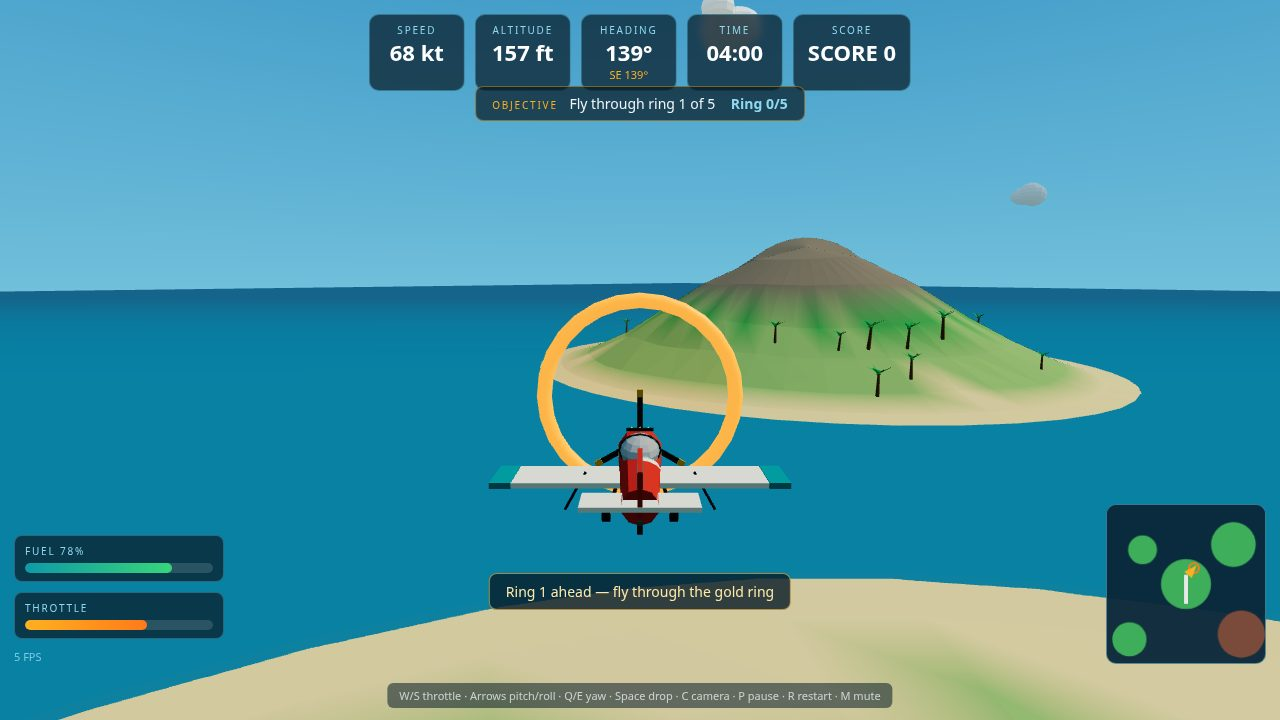
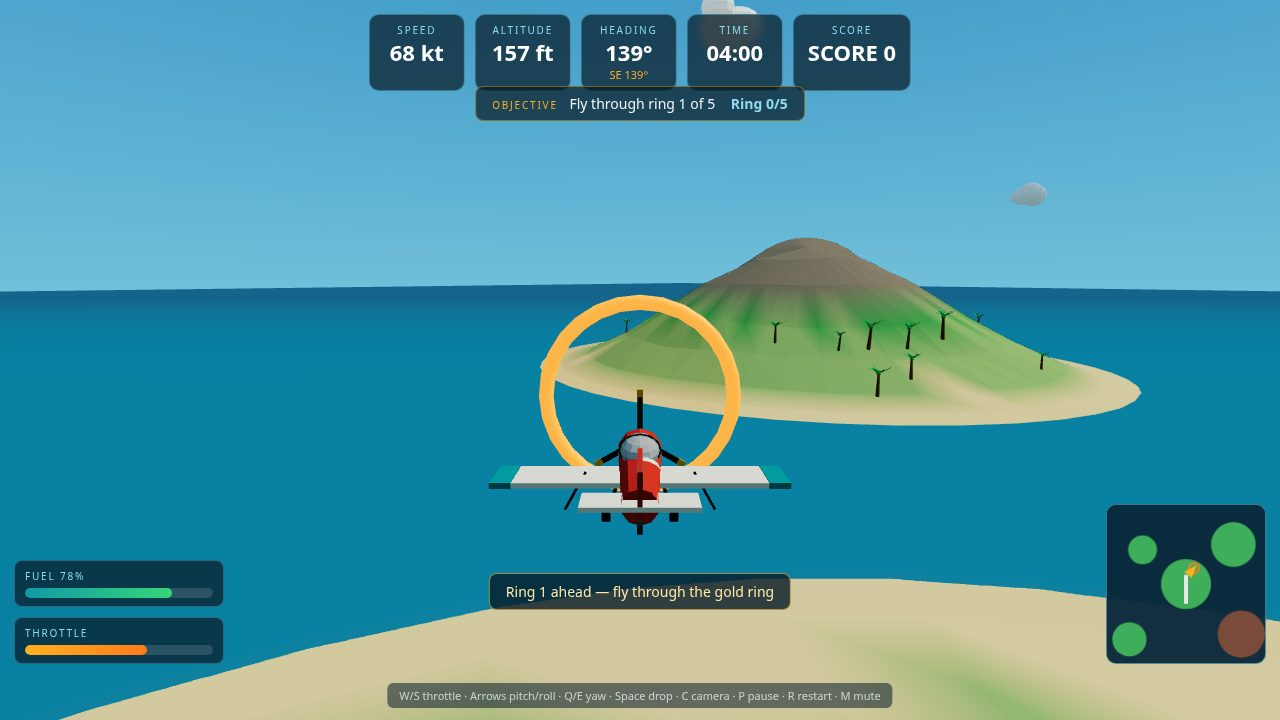
Fix cockpit view: real instrument panel + A-pillars; remove FPS readout from HUD

Changed region(s): [[0.0, 0.7333, 0.1875, 0.9472], [0.4062, 0.3972, 0.5938, 0.6417]]

diff --git a/game/src/aircraft.js b/game/src/aircraft.js
@@ -48,26 +48,148 @@ export function buildAircraft() {
   canopyFrame.scale.set(1, 0.8, 1);
   group.add(canopyFrame);
 
-  // Cockpit dashboard: a low, narrow dark strip + three tiny glowing
-  // gauges, just above the nose line so the horizon stays clear from
-  // the cockpit camera (a tall/close panel blocks the whole view).
-  // Kept thin and near the nose: from the cockpit a deep/tilted panel
-  // reads as a huge black slab.
-  const dash = new THREE.Group();
-  const dashPanel = new THREE.Mesh(new THREE.BoxGeometry(1.0, 0.1, 0.12), lam(0x1d2126));
-  dashPanel.position.set(0, 0.88, 2.6);
-  dashPanel.rotation.x = -0.1;
-  dash.add(dashPanel);
-  const gaugeCols = [0x2fd6c8, 0xffb020, 0x7ddc4f];
-  gaugeCols.forEach((c, i) => {
-    const g = new THREE.Mesh(
-      new THREE.SphereGeometry(0.03, 10, 8),
-      new THREE.MeshBasicMaterial({ color: c }),
+  // Cockpit interior: a real instrument panel + canopy A-pillars, shown
+  // only from the cockpit camera (main.js toggles visibility by camera
+  // mode). In chase view the plane keeps its clean exterior; from the
+  // cockpit the panel, gauges and struts must read instantly. The panel
+  // top stays below the pilot's eye line so the horizon, terrain and
+  // volcano stay visible above it, and the red nose shows below it.
+  const cockpitInterior = new THREE.Group();
+  cockpitInterior.name = 'cockpit-interior';
+  cockpitInterior.visible = false;
+  const panelMat = new THREE.MeshBasicMaterial({ color: 0x1d2126 });
+  const strutMat = new THREE.MeshBasicMaterial({ color: 0x14181d });
+  const panel = new THREE.Mesh(new THREE.BoxGeometry(1.32, 0.4, 0.1), panelMat);
+  panel.position.set(0, 0.81, 2.28);
+  cockpitInterior.add(panel);
+  // Glareshield: padded lip across the top of the panel.
+  const glare = new THREE.Mesh(new THREE.BoxGeometry(1.34, 0.06, 0.28), panelMat);
+  glare.position.set(0, 1.01, 2.2);
+  cockpitInterior.add(glare);
+
+  // Round gauge faces are canvas textures: dark lit dial, white ticks
+  // and numbers. The face is DoubleSide (the pilot sees its -Z side)
+  // with repeat.x = -1 so the numbers read correctly from the cockpit.
+  function gaugeFace(spec) {
+    const S = 256;
+    const cv = document.createElement('canvas');
+    cv.width = S; cv.height = S;
+    const ctx = cv.getContext('2d');
+    const cx = S / 2, cy = S / 2;
+    ctx.fillStyle = '#0d141b';
+    ctx.beginPath(); ctx.arc(cx, cy, 126, 0, Math.PI * 2); ctx.fill();
+    ctx.strokeStyle = '#3a4a55'; ctx.lineWidth = 6;
+    ctx.beginPath(); ctx.arc(cx, cy, 120, 0, Math.PI * 2); ctx.stroke();
+    const rad = (d) => (d * Math.PI) / 180;
+    // Canvas angle for a value: value gauges map fraction 0..1 onto
+    // canvas 135..405 deg (min lower-left, max lower-right); the
+    // heading gauge maps 0..360 deg onto canvas 270..630 deg (N up).
+    const angleFor = (v) => (spec.compass ? 270 + v : 135 + 270 * v);
+    const nMinor = spec.compass ? 36 : 27;
+    ctx.strokeStyle = '#cfe8ef';
+    for (let i = 0; i <= nMinor; i++) {
+      const v = spec.compass ? (i / nMinor) * 360 : i / nMinor;
+      const a = rad(angleFor(v));
+      const major = i % (spec.compass ? 3 : 9) === 0;
+      const r1 = major ? 96 : 106, r2 = 114;
+      ctx.lineWidth = major ? 5 : 3;
+      ctx.beginPath();
+      ctx.moveTo(cx + Math.cos(a) * r1, cy + Math.sin(a) * r1);
+      ctx.lineTo(cx + Math.cos(a) * r2, cy + Math.sin(a) * r2);
+      ctx.stroke();
+    }
+    ctx.fillStyle = '#eef6f8';
+    ctx.font = 'bold 30px sans-serif';
+    ctx.textAlign = 'center'; ctx.textBaseline = 'middle';
+    for (const [v, text] of spec.labels) {
+      const a = rad(angleFor(v));
+      ctx.fillText(text, cx + Math.cos(a) * 74, cy + Math.sin(a) * 74);
+    }
+    ctx.fillStyle = '#ffb020';
+    ctx.font = 'bold 24px sans-serif';
+    ctx.fillText(spec.tag, cx, cy + 92);
+    const tex = new THREE.CanvasTexture(cv);
+    tex.wrapS = THREE.RepeatWrapping;
+    tex.repeat.x = -1;
+    tex.colorSpace = THREE.SRGBColorSpace;
+    tex.anisotropy = 4;
+    return tex;
+  }
+
+  // One round gauge: rim + lit face + needle pivoting at the centre.
+  // Returns the needle group; its rotation.z is driven from flight
+  // state in update() below.
+  function buildGauge(spec, x, y, r) {
+    const g = new THREE.Group();
+    g.position.set(x, y, 2.22);
+    const rim = new THREE.Mesh(
+      new THREE.TorusGeometry(r, r * 0.14, 8, 28),
+      new THREE.MeshBasicMaterial({ color: 0x3a4a55 }),
     );
-    g.position.set((i - 1) * 0.3, 0.95, 2.62);
-    dash.add(g);
-  });
-  group.add(dash);
+    g.add(rim);
+    const face = new THREE.Mesh(
+      new THREE.CircleGeometry(r * 0.96, 28),
+      new THREE.MeshBasicMaterial({ map: gaugeFace(spec), side: THREE.DoubleSide }),
+    );
+    g.add(face);
+    const needle = new THREE.Group();
+    const blade = new THREE.Mesh(
+      new THREE.BoxGeometry(r * 0.13, r * 0.82, 0.012),
+      new THREE.MeshBasicMaterial({ color: 0xffffff }),
+    );
+    blade.position.y = r * 0.3;
+    needle.add(blade);
+    const hub = new THREE.Mesh(
+      new THREE.SphereGeometry(r * 0.16, 10, 8),
+      new THREE.MeshBasicMaterial({ color: 0xff5a4a }),
+    );
+    needle.add(hub);
+    g.add(needle);
+    cockpitInterior.add(g);
+    return needle;
+  }
+
+  const needles = {
+    airspeed: buildGauge(
+      { labels: [[0, '0'], [1 / 6, '20'], [2 / 6, '40'], [3 / 6, '60'], [4 / 6, '80'], [5 / 6, '100'], [1, '120']], tag: 'KT' },
+      -0.3, 0.81, 0.15,
+    ),
+    altitude: buildGauge(
+      { labels: [[0, '0'], [0.2, '2'], [0.4, '4'], [0.6, '6'], [0.8, '8'], [1, '10']], tag: 'FT x100' },
+      0, 0.81, 0.15,
+    ),
+    heading: buildGauge(
+      { compass: true, labels: [[0, 'N'], [30, '3'], [60, '6'], [90, 'E'], [120, '12'], [150, '15'], [180, 'S'], [210, '21'], [240, '24'], [270, 'W'], [300, '30'], [330, '33']], tag: 'HDG' },
+      0.3, 0.81, 0.15,
+    ),
+    fuel: buildGauge(
+      { labels: [[0, 'E'], [1, 'F']], tag: 'FUEL' },
+      -0.55, 0.81, 0.095,
+    ),
+    throttle: buildGauge(
+      { labels: [[0, '0'], [0.5, '50'], [1, '100']], tag: 'THR' },
+      0.55, 0.81, 0.095,
+    ),
+  };
+
+  // Canopy A-pillars: dark struts from the panel top corners up and
+  // back toward the pilot, framing the windscreen at the view edges.
+  function strutBetween(a, b, r) {
+    const dir = new THREE.Vector3().subVectors(b, a);
+    const len = dir.length();
+    const m = new THREE.Mesh(new THREE.CylinderGeometry(r, r, len, 8), strutMat);
+    m.position.copy(a).addScaledVector(dir, 0.5);
+    m.quaternion.setFromUnitVectors(new THREE.Vector3(0, 1, 0), dir.normalize());
+    return m;
+  }
+  for (const s of [-1, 1]) {
+    cockpitInterior.add(strutBetween(
+      new THREE.Vector3(s * 0.6, 1.0, 2.2),
+      new THREE.Vector3(s * 0.5, 1.16, 0.6),
+      0.045,
+    ));
+  }
+  group.add(cockpitInterior);
 
   // Main wings: low wing, slight dihedral, teal tips.
   const wingGeo = new THREE.BoxGeometry(9.6, 0.18, 1.7);
@@ -167,6 +289,8 @@ export function buildAircraft() {
     gearLeft,
     gearRight,
     nose,
+    cockpitInterior,
+    canopyFrame,
     update(dt, flight) {
       propeller.rotation.z -= flight.propellerSpeed * dt;
       const rpm = Math.min(1, flight.propellerSpeed / 40);
@@ -174,6 +298,17 @@ export function buildAircraft() {
       // Gear is fixed on this bush plane; keep the refs for shots/HUD.
       gearLeft.visible = true;
       gearRight.visible = true;
+      // Cockpit needles. rotation.z is CCW seen from the nose; from the
+      // pilot's seat it reads CCW-from-up, so value 0 sits lower-left
+      // and full scale lower-right; the heading needle points at the
+      // heading, clockwise from up.
+      const clamp01 = (v) => Math.max(0, Math.min(1, v));
+      const valueAngle = (f) => (1 - 2 * clamp01(f)) * 2.356;
+      needles.airspeed.rotation.z = valueAngle(flight.speed / 120);
+      needles.altitude.rotation.z = valueAngle((flight.y * 3.28) / 1000);
+      needles.heading.rotation.z = -THREE.MathUtils.degToRad(flight.headingDeg);
+      needles.fuel.rotation.z = valueAngle(flight.fuel / 100);
+      needles.throttle.rotation.z = valueAngle(flight.throttle);
     },
   };
 }

diff --git a/game/src/main.js b/game/src/main.js
@@ -214,14 +214,13 @@ function animate(nowMs) {
   last = nowMs;
   elapsed = now;
 
-  // FPS counter (1 s window).
+  // Internal frame counter (1 s window) for the automation handle only;
+  // there is no FPS readout in the HUD.
   frames++;
   if (now - fpsTime >= 1) {
     fps = frames;
     frames = 0;
     fpsTime = now;
-    const fpsEl = $('hud-fps');
-    if (fpsEl) fpsEl.textContent = fps + ' FPS';
   }
 
   handleKeys();
@@ -304,6 +303,14 @@ function animate(nowMs) {
     if (world.lamp) world.lamp.material.color.setHex(Math.sin(now * 2.4) > 0 ? 0xffc94d : 0x8a7a3a);
     if (world.crater) world.crater.material.color.setHex(Math.sin(now * 1.8) > 0 ? 0xff5a1f : 0xd63d12);
   }
+
+  // Cockpit interior (panel, gauges, struts) exists only in cockpit view.
+  if (plane.cockpitInterior) plane.cockpitInterior.visible = cameraMode === 'cockpit';
+  // The canopy frame torus sits 0.5 m ahead of the cockpit camera, so in
+  // cockpit view it reads as a giant black roll cage across the sky;
+  // hide it there (the A-pillars frame the windscreen instead) and keep
+  // it for the exterior/chase view.
+  if (plane.canopyFrame) plane.canopyFrame.visible = cameraMode !== 'cockpit';
 
   input.endFrame();
   renderer.render(scene, camera);

diff --git a/game/style.css b/game/style.css
@@ -22,7 +22,6 @@ html, body { margin: 0; padding: 0; height: 100%; overflow: hidden; background: 
 .fill.fuel { background: linear-gradient(90deg, #0e9aa7, #37d67a); width: 100%; }
 .fill.fuel.low { background: linear-gradient(90deg, #ff5a4a, #ffb020); }
 .fill.throttle { background: linear-gradient(90deg, #ffb020, #ff7a1a); width: 0%; }
-.hud-fps { font-size: 11px; color: #8fd8ef; opacity: 0.85; }
 #minimap { position: absolute; right: 14px; bottom: 56px; width: 160px; height: 160px; border: 1px solid rgba(120, 220, 255, 0.4); border-radius: 10px; background: rgba(8, 28, 40, 0.7); }
 #hud-warn { position: absolute; top: 132px; left: 50%; transform: translateX(-50%); background: rgba(120, 10, 10, 0.85); border: 1px solid #ff5a4a; color: #fff; font-weight: 800; letter-spacing: 0.06em; padding: 9px 18px; border-radius: 8px; animation: blink 0.6s steps(2) infinite; white-space: nowrap; }
 #hud-toast { position: absolute; bottom: 110px; left: 50%; transform: translateX(-50%); background: rgba(8, 28, 40, 0.8); border: 1px solid rgba(255, 201, 77, 0.6); color: #ffe9a8; padding: 8px 16px; border-radius: 8px; font-size: 14px; white-space: nowrap; max-width: 92vw; overflow: hidden; text-overflow: ellipsis; }

diff --git a/game/src/camera.js b/game/src/camera.js
@@ -43,10 +43,13 @@ export function createCameraRig(camera) {
       const pitch = degToRad(flight.pitchDeg);
       const roll = degToRad(flight.rollDeg);
       const [ox, oy, oz] = CAMERA.cockpitOffset;
-      // Rotate the cockpit offset by heading so it stays glued to the plane.
-      const cx = Math.sin(heading) * oz + Math.cos(heading) * ox;
-      const cz = Math.cos(heading) * oz - Math.sin(heading) * ox;
-      camera.position.set(flight.x + cx, flight.y + oy, flight.z + cz);
+      // The camera is the pilot's head: rigidly attached to the plane,
+      // so its position rotates with heading, pitch AND roll exactly
+      // like the airframe. (The old heading-only offset let the camera
+      // drift outside the canopy glass on a pitched-down shot, and the
+      // glass then washed out the whole view.)
+      const off = new THREE.Vector3(ox, oy, oz).applyEuler(new THREE.Euler(-pitch, heading, roll, 'YXZ'));
+      camera.position.set(flight.x + off.x, flight.y + off.y, flight.z + off.z);
       camera.rotation.order = 'YXZ';
       // Three.js cameras face -Z by default, the plane nose faces +Z at
       // heading 0, so the cockpit must look along PI + heading.

diff --git a/game/src/shots.js b/game/src/shots.js
@@ -54,7 +54,11 @@ export function applyShot(api, name, seed) {
   } else if (name === 'cockpit') {
     // Over Home Island looking at the volcano (bearing ~41 deg from
     // here): terrain ahead below, volcano dead ahead, dash in frame.
-    posePlane(api, 0, 100, -100, 41, 1, 0, 74, 0.7);
+    // Pitched -6 deg (gentle descent toward the volcano): the panel is
+    // fixed to the plane so it stays put, while the volcano rises 6 deg
+    // in frame and clears the top of the panel instead of hiding
+    // behind it.
+    posePlane(api, 0, 100, -100, 41, -6, 0, 74, 0.7);
     api.setCameraMode('cockpit');
     api.startMissionForShot('volcano-rescue');
     api.hudShow();

diff --git a/game/index.html b/game/index.html
@@ -34,7 +34,6 @@
   <div class="hud-left">
     <div class="gauge"><span class="hud-label" id="hud-fuel-text">FUEL 100%</span><div class="bar"><div id="hud-fuel-fill" class="fill fuel"></div></div></div>
     <div class="gauge"><span class="hud-label">THROTTLE</span><div class="bar"><div id="hud-throttle-fill" class="fill throttle"></div></div></div>
-    <div class="hud-fps" id="hud-fps">— FPS</div>
   </div>
   <canvas id="minimap" width="160" height="160"></canvas>
   <div id="hud-warn" class="hidden"></div>

diff --git a/game/src/config.js b/game/src/config.js
@@ -57,7 +57,7 @@ export const CAMERA = {
   chaseHeight: 6.5,
   chaseLookAhead: 18,
   smooth: 5.5,
-  cockpitOffset: [0, 1.5, 0.6],
+  cockpitOffset: [0, 1.06, 0.35],
 };
 
 export const COLORS = {
